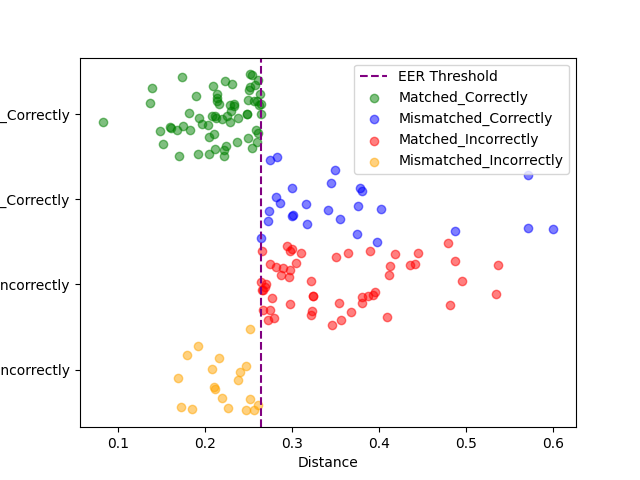
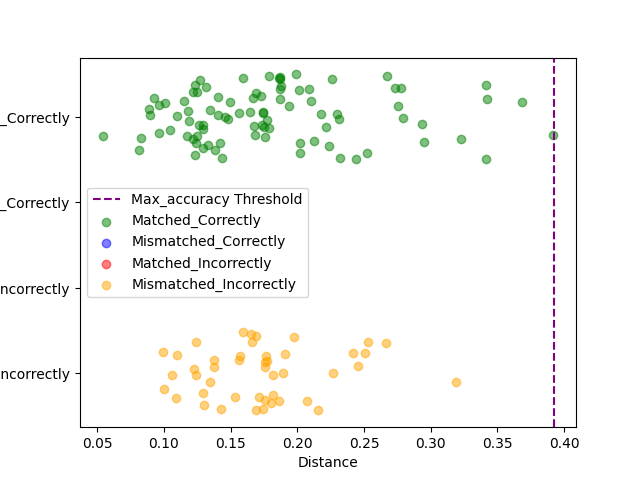
transformer working!!

diff --git a/main.py b/main.py
@@ -1,17 +1,26 @@
 #importing libraries
 from facenet_pytorch import MTCNN
 import torch
-from torchvision import datasets
+from torchvision import datasets, transforms
 from torch.utils.data import DataLoader
 import os
 import numpy as np
 import time
 import math
 import importlib.util
-import matplotlib
-matplotlib.use('TkAgg')  # or another appropriate backend, like 'Qt5Agg', 'GTK3Agg', etc.
 import matplotlib.pyplot as plt
+from torchvision.transforms import Resize
 
+
+resize = Resize((112, 112))
+
+use_mtcnn = False  # Change this to False if you want to exclude MTCNN
+to_tensor = transforms.ToTensor()
+
+if use_mtcnn:
+    mtcnn = MTCNN(image_size=112, margin=24, keep_all=False, min_face_size=50)
+else:
+    mtcnn = None
 
 # Import the 'perform_val' function from the 'util.utils' module
 util_path = "/Users/br/Software/Machine_learning/Face-Transformer/util/utils.py"
@@ -20,22 +29,24 @@ utils_module = importlib.util.module_from_spec(spec)
 spec.loader.exec_module(utils_module)
 perform_val = utils_module.perform_val
 
-vit_face_path = "/Users/br/Software/Machine_learning/Face-Transformer/vit_pytorch/vit_face.py"
-spec = importlib.util.spec_from_file_location("vit_face", vit_face_path)
-vit_face_module = importlib.util.module_from_spec(spec)
-spec.loader.exec_module(vit_face_module)
-ViT_face = vit_face_module.ViT_face
+vits_face_path = "/Users/br/Software/Machine_learning/Face-Transformer/vit_pytorch/vits_face.py"
+spec = importlib.util.spec_from_file_location("vits_face", vits_face_path)
+vits_face_module = importlib.util.module_from_spec(spec)
+spec.loader.exec_module(vits_face_module)
+ViTs_face = vits_face_module.ViTs_face
 
 # Initialize the ViT_face model
-model = ViT_face(
+model = ViTs_face(
     image_size=112,
     patch_size=8,
-    loss_type='ArcFace',
+    loss_type='CosFace',
     GPU_ID=torch.device('cuda') if torch.cuda.is_available() else torch.device('cpu'),
     num_class=93431,
     dim=512,
     depth=20,
     heads=8,
+    pad = 2,
+    ac_patch_size = 8,
     mlp_dim=2048,
     dropout=0.1,
     emb_dropout=0.1
@@ -59,6 +70,19 @@ matched_loader = DataLoader(matched_dataset, collate_fn=lambda x: x[0])
 mismatched_dataset = datasets.ImageFolder('/Users/br/Software/Machine_learning/MTCNN_face_transformer/LFW_dataset/small_samples/mismatched_faces_test')
 mismatched_dataset.idx_to_class = {i: c for c, i in mismatched_dataset.class_to_idx.items()}
 mismatched_loader = DataLoader(mismatched_dataset, collate_fn=lambda x: x[0])
+
+def calculate_accuracy(labels, distances, threshold):
+    correct_predictions = 0
+    total_predictions = len(labels)
+
+    for i in range(len(distances)):
+        if labels[i] == 1 and distances[i] <= threshold:
+            correct_predictions += 1
+        if labels[i] == 0 and distances[i] > threshold:
+            correct_predictions += 1
+
+    accuracy = correct_predictions / total_predictions
+    return accuracy
 
 def calculate_far_frr(labels, distances, threshold):
     num_positive = np.sum(labels)
@@ -99,18 +123,15 @@ for folder in os.listdir(matched_dataset.root):
             image_path = os.path.join(folder_path, filename)
             image = datasets.folder.default_loader(image_path)
             images.append(image)
-        # detect faces and generate embeddings for the two images in the folder
+        # generate embeddings for the two images in the folder
         if len(images) == 2:
             embeddings = []
             for i in range(2):
                 start_time_matched_resnet = time.time()
-                face, face_prob = mtcnn(images[i], return_prob=True)
-                if face is not None and face_prob > 0.73:
-                    emb = model(face.unsqueeze(0))
-                    embeddings.append(emb.detach())
-                else:
-                    print(f"No face detected in {os.path.basename(image_path)}")
-                    break
+                resized_image = resize(images[i])
+                tensor_image = to_tensor(resized_image)
+                emb = model(tensor_image.unsqueeze(0))
+                embeddings.append(emb.detach())
                 elapsed_time_matched_resnet = time.time() - start_time_matched_resnet
                 resnet_time += elapsed_time_matched_resnet
                 n_operations += 1
@@ -119,6 +140,7 @@ for folder in os.listdir(matched_dataset.root):
                 matched_name_list.extend([folder] * 2)
             else:
                 print(f"Not enough faces detected in {folder_path}")
+
             
 
 # generate embeddings for the dataset
@@ -126,20 +148,20 @@ mismatched_embedding_list = []
 mismatched_name_list = []
 for image, index in mismatched_loader:
     start_time__mismatched_resnet = time.time()
-    face, face_prob = mtcnn(image, return_prob=True)
-    if face is not None and face_prob > 0.73:
-        emb = model(face.unsqueeze(0))
-        mismatched_embedding_list.append(emb.detach())
-        mismatched_name_list.append(mismatched_dataset.idx_to_class[index])
-        elapsed_time_mismatched_resnet = time.time() - start_time__mismatched_resnet
-        resnet_time += elapsed_time_mismatched_resnet
-        n_operations += 1
-    else:
-        print("No face detected in image:", index)
+    resized_image = resize(image)
+    tensor_image = to_tensor(resized_image)
+    emb = model(tensor_image.unsqueeze(0))
+    mismatched_embedding_list.append(emb.detach())  
+    mismatched_name_list.append(mismatched_dataset.idx_to_class[index]) 
+    elapsed_time_mismatched_resnet = time.time() - start_time__mismatched_resnet
+    resnet_time += elapsed_time_mismatched_resnet
+    n_operations += 1
+
 
 if len(mismatched_embedding_list) % 2 != 0:
     mismatched_embedding_list.pop()
     mismatched_name_list.pop()
+
 
 dist_matched = [torch.dist(matched_embedding_list[i], matched_embedding_list[i + 1]).item() for i in range(0, len(matched_embedding_list), 2)]
 dist_mismatched = [torch.dist(mismatched_embedding_list[i], mismatched_embedding_list[i + 1]).item() for i in range(0, len(mismatched_embedding_list), 2)]
@@ -147,20 +169,22 @@ dist_mismatched = [torch.dist(mismatched_embedding_list[i], mismatched_embedding
 distances = dist_matched + dist_mismatched
 labels = [1] * len(dist_matched) + [0] * len(dist_mismatched)
 
-# Find the EER threshold and EER
-thresholds = np.linspace(0, 2, 1000)
+accuracies = []
+thresholds = np.linspace(0.1, 1.6, 5000)
 FARs = []
 FRRs = []
-
 for threshold in thresholds:
     FAR, FRR = calculate_far_frr(labels, distances, threshold)
+    accuracy = calculate_accuracy(labels, distances, threshold)
     FARs.append(FAR)
     FRRs.append(FRR)
+    accuracies.append(accuracy)
 
+max_accuracy_index = np.argmax(accuracies)
+max_accuracy_threshold = thresholds[max_accuracy_index]
+max_accuracy = accuracies[max_accuracy_index]
 eer_index = np.argmin(np.abs(np.array(FARs) - np.array(FRRs)))
-eer_threshold = thresholds[eer_index]
 eer = (FARs[eer_index] + FRRs[eer_index]) / 2
-print("EER Threshold:", eer_threshold)
 print("EER:", eer)
 
 # Calculate the accuracy and F1 score of the model
@@ -176,7 +200,7 @@ for i in range(0, len(matched_embedding_list), 2):
     dist = torch.dist(emb1, emb2).item()
     is_match = matched_name_list[i] == matched_name_list[i + 1]
     true_matched.append(is_match)
-    pred_matched.append(dist < eer_threshold)
+    pred_matched.append(dist < max_accuracy_threshold)
 
 # Compare embeddings and calculate metrics for mismatched faces
 for i in range(0, len(mismatched_embedding_list), 2):
@@ -185,7 +209,7 @@ for i in range(0, len(mismatched_embedding_list), 2):
     dist = torch.dist(emb1, emb2).item()
     is_mismatch = mismatched_name_list[i] != mismatched_name_list[i + 1]
     true_mismatched.append(is_mismatch)
-    pred_mismatched.append(dist > eer_threshold)
+    pred_mismatched.append(dist > max_accuracy_threshold)
 
 # True positives
 matched_correctly = 0
@@ -223,8 +247,11 @@ accuracy = (matched_correctly + mismatched_correctly) / (matched_correctly + mis
 precision = matched_correctly / (matched_correctly + matched_incorrectly)
 recall = matched_correctly / (matched_correctly + mismatched_incorrectly)
 f1 = 2 * precision * recall / (precision + recall)
-
+pred_matched.append(dist < max_accuracy_threshold)
+pred_mismatched.append(dist > max_accuracy_threshold)
 average_resnet_time = resnet_time / n_operations
+
+print("Max Accuracy Threshold:", max_accuracy_threshold)
 print("Average InceptionResnetV1 time:", average_resnet_time)
 print("Matched_Correctly: ", matched_correctly)
 print("Mismatched_Correctly: ", mismatched_correctly)
@@ -251,7 +278,7 @@ ax.scatter(dist_matched_incorrectly, add_jitter([1] * len(dist_matched_incorrect
 ax.scatter(dist_mismatched_incorrectly, add_jitter([0] * len(dist_mismatched_incorrectly), jitter_amount), c='orange', alpha=0.5, label='Mismatched_Incorrectly')
 
 # EER threshold
-ax.axvline(x=eer_threshold, color='purple', linestyle='--', label='EER Threshold')
+ax.axvline(x=max_accuracy_threshold, color='purple', linestyle='--', label='Max_accuracy Threshold')
 
 ax.set_xlabel('Distance')
 ax.set_yticks([0, 1, 2, 3])
